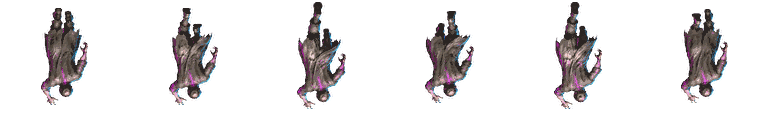
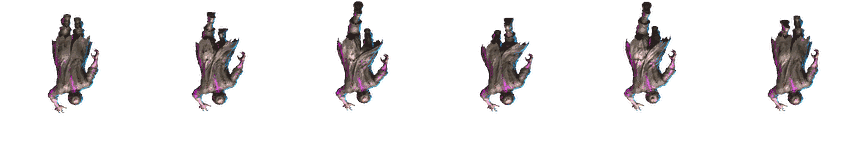
deadswarm: DEAD ROUTE 좀비 떼 생존 1119-1315 확대·걸음·불 효과·공습 모바일 테스트판
Claude-Session: https://claude.ai/code/session_01BVqfE3DvECcRBtZfh4PbBu

diff --git a/deadswarm/game.js b/deadswarm/game.js
@@ -16,7 +16,7 @@ if(API){const dpr=Math.min(2,info.pixelRatio||1);c.width=Math.max(1,Math.round((
  const s=Math.min(c.width/W,c.height/H);view={s,ox:(c.width-W*s)/2,oy:(c.height-H*s)/2};}
 else{c.width=W;c.height=H;}
 function mkCanvas(w,h){const cv=API?API.createCanvas():document.createElement('canvas');cv.width=w;cv.height=h;return cv}
-const BUILD='1119-1300';
+const BUILD='1119-1315';
 const QS=(!API&&typeof location!=='undefined')?location.search:'';
 // 안전장치: 반지름 음수·NaN이면 그리기 전체가 멈추는 문제 방지
 (function(){const P=Object.getPrototypeOf(g);if(!P||P.__safe)return;P.__safe=true;const oa=P.arc,oe=P.ellipse;
@@ -39,16 +39,20 @@ function onImg(name,im){if(name.indexOf('z_')===0){const k=name.slice(2);try{ZWH
 IMG_LIST.forEach(n=>loadImg(n));
 
 // ================================================================ 캐릭터 · 감염체 그림 (잘라 붙인 부품을 코드로 움직임)
-const SPR={"jay":[200,59.8],"blk":[160,71.8],"pred":[128,55.0],"boss":[256,133.9],"cmd":[128,64.6],"run":[128,55.0],"walk":[128,55.0]};const NF=6;
-function drawRunner(cx,x,y,ang,phase,mag,sz){const im=imgs.jay;if(!im)return;const C=SPR.jay[0],D=sz*SPR.jay[1]/34,m=Math.min(1,mag),f=m<.15?0:(((phase/TAU*NF)|0)%NF+NF)%NF;
- cx.save();cx.translate(x,y);cx.fillStyle='rgba(0,0,0,.45)';cx.beginPath();cx.ellipse(0,3,sz*.42,sz*.3,0,0,TAU);cx.fill();cx.rotate(ang-PI/2);cx.drawImage(im,f*C,0,C,C,-D/2,-D/2,D,D);cx.restore()}
-// 감염체 걷기 6장을 미리 잘라 둠(그림자 포함, 흰 번쩍임·예고 색 포함)
+const SPR={"jay":[224,79.6,[3,1,4,2,5,6,5,2,4,1],3],"blk":[176,104.5,[4,3,5,3,4,-3,-5,-3],3],"pred":[144,72.7,[1,2,3,5,3,2],0],"boss":[272,177.7,[4,2,5,3,5,2,4,-2,-5,-3,-5,-2],3],"cmd":[144,84.8,[6,2,5,3,5,2],5],"run":[144,68.8,[6,1,4,2,3,5,3,2,4,1],3],"walk":[144,69.7,[3,1,6,4,2,5,2,4,6,1],5]};
+function drawRunner(cx,x,y,ang,phase,mag,sz){const im=imgs.jay;if(!im)return;const J=SPR.jay,C=J[0],D=sz*J[1]/34,m=Math.min(1,mag),o=J[2],f=m<.15?J[3]:o[(((phase/TAU*o.length)|0)%o.length+o.length)%o.length]-1;
+ cx.save();cx.translate(x,y);cx.fillStyle='rgba(0,0,0,.45)';cx.beginPath();cx.ellipse(0,3,sz*.5,sz*.36,0,0,TAU);cx.fill();cx.rotate(ang-PI/2+Math.sin(phase)*.04*m);cx.drawImage(im,f*C,0,C,C,-D/2,-D/2,D,D);cx.restore()}
+// 감염체 걸음 그림을 미리 잘라 둠(그림자·흰 번쩍임·예고 색 포함, 음수 번호는 좌우 뒤집은 반대 걸음)
 const ZF={};let zfReady=false;
-function buildSprites(){if(zfReady)return true;for(const k of['walk','run','pred','blk','cmd','boss'])if(!imgs['z_'+k]||!ZWHITE[k])return false;
- for(const t of['walk','run','pred','blk','cmd','boss']){const C=SPR[t][0],S=SPR[t][1],im=imgs['z_'+t],sh=C*.17,mk=(src,i,tint)=>{const cv=mkCanvas(C,C),x=cv.getContext('2d');if(!tint||tint==='t'){x.fillStyle='rgba(0,0,0,.42)';x.beginPath();x.ellipse(C/2,C/2+2,sh,sh*.8,0,0,TAU);x.fill()}x.drawImage(src,i*C,0,C,C,0,0,C,C);
-   if(tint==='t'){x.globalCompositeOperation='source-atop';x.globalAlpha=.4;x.fillStyle='#ff7a2a';x.fillRect(0,0,C,C)}return cv};
-  ZF[t]={S,f:[],white:mk(ZWHITE[t],0,'w'),tele:mk(im,1,'t')};for(let i=0;i<NF;i++)ZF[t].f.push(mk(im,i))}
+function buildSprites(){if(zfReady)return true;const TS=['walk','run','pred','blk','cmd','boss'];for(const k of TS)if(!imgs['z_'+k]||!ZWHITE[k])return false;
+ for(const t of TS){const C=SPR[t][0],S=SPR[t][1],im=imgs['z_'+t],sh=C*.15,mk=(src,i,tint)=>{const cv=mkCanvas(C,C),x=cv.getContext('2d'),fi=Math.abs(i)-1;if(tint!=='w'){x.fillStyle='rgba(0,0,0,.42)';x.beginPath();x.ellipse(C/2,C/2+2,sh,sh*.85,0,0,TAU);x.fill()}
+   if(i<0){x.translate(C,0);x.scale(-1,1)}x.drawImage(src,fi*C,0,C,C,0,0,C,C);if(tint==='t'){x.globalCompositeOperation='source-atop';x.globalAlpha=.4;x.fillStyle='#ff7a2a';x.fillRect(0,0,C,C)}return cv};
+  const N=SPR[t][3]+1;ZF[t]={S,f:SPR[t][2].map(i=>mk(im,i)),white:mk(ZWHITE[t],N,'w'),tele:mk(im,N,'t')}}
  zfReady=true;return true}
+// 불·연기용 뭉게 그림(코드로 한 번만 만들어 색별로 재사용)
+const PUFF=[],PUFFC={};
+function puff(col,v){const k=col+v;let cv=PUFFC[k];if(!cv){if(!PUFF.length)for(let n=0;n<4;n++){const c2=mkCanvas(64,64),x=c2.getContext('2d');let sd=n*97+13;const rn=()=>{sd=(sd*1103515245+12345)&0x7fffffff;return sd/0x7fffffff};for(let i=0;i<9;i++){const a=rn()*TAU,r=rn()*13,px=32+Math.cos(a)*r,py=32+Math.sin(a)*r,r2=9+rn()*9,gr=x.createRadialGradient(px,py,0,px,py,r2);gr.addColorStop(0,'rgba(255,255,255,.55)');gr.addColorStop(1,'rgba(255,255,255,0)');x.fillStyle=gr;x.fillRect(0,0,64,64)}PUFF.push(c2)}cv=PUFFC[k]=tintOf(PUFF[v],col,1)}return cv}
+const FPAL=[['#fff3c0','#ffa032','#e0401a'],['#f0fcff','#8fdcff','#3f8fff']];
 const PROP_M={radio:[2,2,96,96],firebottle:[100,2,44,96],bottle:[146,2,39,96],crate:[187,2,87,96],spikes:[276,2,95,96],parcel:[373,2,96,96],turret:[471,2,96,90],sandbag:[569,2,96,32],medkit:[667,2,96,75],battery:[765,2,96,61]};
 function prop(k,x,y,w,rot){const im=imgs.props;if(!im)return false;const m=PROP_M[k],h=w*m[3]/m[2];g.save();g.translate(x,y);if(rot)g.rotate(rot);g.drawImage(im,m[0],m[1],m[2],m[3],-w/2,-h/2,w,h);g.restore();return true}
 // 부드러운 빛 스프라이트(색별 한 번만 만들어 재사용)
@@ -172,7 +176,7 @@ const UPG=[
  {k:'revive',n:['응급 키트','急救包'],m:1,b:400,e:l=>[l?'한 판에 한 번, 쓰러져도 체력 40%로 일어나요':'한 판에 한 번 부활','每局一次，倒下后以40%生命复活']}];
 const upLv=k=>save.up[k]||0, upCost=u=>Math.round(u.b*(1+upLv(u.k))*(1+upLv(u.k)*.35));
 const MISSIONS=[{k:'kill',goal:800,n:['감염체 800마리 쓰러뜨리기','击倒800个感染者'],r:60},{k:'run',goal:3,n:['출동 3번','出动3次'],r:40},{k:'clear',goal:1,n:['구역 1번 탈출','成功撤离1次'],r:80},
- {k:'crate',goal:4,n:['보급 상자 4개 열기','打开4个补给箱'],r:50},{k:'lv',goal:20,n:['한 판에 레벨 20 달성','单局达到20级'],r:60},{k:'siren',goal:40,n:['사이렌 켜고 40초 버티기','开警报坚持40秒'],r:60},{k:'evo',goal:1,n:['무기 1번 진화','进化武器1次'],r:90},{k:'time',goal:300,n:['합계 5분 버티기','累计坚持5分钟'],r:50}];
+ {k:'crate',goal:4,n:['보급 상자 4개 열기','打开4个补给箱'],r:50},{k:'lv',goal:20,n:['한 판에 레벨 20 달성','单局达到20级'],r:60},{k:'ult',goal:5,n:['공습 5번 요청','呼叫空袭5次'],r:60},{k:'evo',goal:1,n:['무기 1번 진화','进化武器1次'],r:90},{k:'time',goal:300,n:['합계 5분 버티기','累计坚持5分钟'],r:50}];
 const ATT=[50,80,100,120,150,200,400];
 const STAR_BOX=[[3,100],[6,200],[9,300],[12,400],[15,600]];
 function dailyInit(){const t=todayKey();if(save.daily&&save.daily.day===t)return;let h=hashStr(t);const pool=MISSIONS.map((m,i)=>i),pick=[];while(pick.length<3){const i=h%pool.length;pick.push(pool.splice(i,1)[0]);h=Math.imul(h,1103515245)+12345>>>0}save.daily={day:t,m:pick.map(i=>({i,p:0,c:false}))};persist()}
@@ -223,7 +227,7 @@ let ptr=null,joy={on:false,ox:0,oy:0,x:0,y:0};
 function message(t,d=2){banner=t;bannerT=d;bannerSc=sc}
 function announce(t,sub,col){bigMsg={t,sub:sub||'',col:col||'#FFE8C2',life:2.2}}
 function shake(n){if(save.shake!==false)shakeT=Math.max(shakeT,n)}
-const VW=470,ZS=W/VW,VH=H/ZS;   // 화면에 보이는 세계 크기
+const VW=410,ZS=W/VW,VH=H/ZS;   // 화면에 보이는 세계 크기
 const lv=k=>S.w[k]||0, EV=k=>!!S.evo[k];
 
 // ================================================================ 판 시작
@@ -233,7 +237,7 @@ function newRun(st,diff,tut,boost){st=st|0;diff=Math.max(1,diff|0);if(!buildWorl
  P={x:px,y:py,hp:maxHp,maxHp,ang:-PI/2,phase:0,inv:1,mv:0};
  const D=STAGES[st];
  S={st,diff,tut:!!tut,t:0,kills:0,lv:1,xp:0,need:3,w:{},evo:{},zs:[],bul:[],gems:[],pk:[],pools:[],tur:[],bolts:[],fx:[],num:[],pt:[],dec:[],drs:[{a:0},{a:2.1},{a:4.2}],
-  spawn:0,wave:20,siren:false,sirenT:0,cam:{x:0,y:0},cd:{gun:.3,molo:1,pulse:2,bolt:1,turret:.5,frost:1.5,drone:1},sawA:0,bossOut:false,boss:null,win:false,winT:-1,over:false,
+  spawn:0,wave:20,air:[],fp:[],ultN:0,cam:{x:0,y:0},cd:{gun:.3,molo:1,pulse:2,bolt:1,turret:.5,frost:1.5,drone:1},sawA:0,bossOut:false,boss:null,win:false,winT:-1,over:false,
   hm:D.mul*(1+.4*(diff-1)),rate:D.rate*(1+.06*(diff-1)),sp:D.sp,drops:[60,120],pick:null,chest:null,rerolls:upLv('reroll'),adReroll:false,kit:upLv('revive')>0,kitUsed:false,revived:false,
   dmgM:1+.06*upLv('pow'),spdM:1+.03*upLv('spd'),cdM:1-.03*upLv('cd'),magM:1+.12*upLv('mag'),xpM:1+.06*upLv('xp'),crates:0,evoN:0,dmg:{},crit:.08,od:0,odG:0,odN:0,eb:[],elT:35,elN:0,wn:0,boost:!!boost,groanT:2,flowT:0,moved:0,tipT:0,doubled:false,reward:0};
  const sw=weaponOpen(save.startW)?save.startW:'gun';S.w[sw]=boost?3:1;if(boost)S.rerolls++;
@@ -242,7 +246,14 @@ function newRun(st,diff,tut,boost){st=st|0;diff=Math.max(1,diff|0);if(!buildWorl
  if(!tut)announce(LL(D.n),L('2분 30초 버티면 문지기가 나타나요','坚持2分30秒，守门者就会出现'))}
 const DM=()=>S.dmgM*(1+.12*lv('pow')), CDM=()=>S.cdM*(1-.08*lv('cd'))*(S.od>0?.6:1);
 let DSRC='etc';const odNeed=()=>Math.min(320,70+50*S.odN);
-function startOD(){S.od=7;S.odG=0;S.odN++;for(const gm of S.gems)gm.pull=true;S.fx.push({k:'wave',x:P.x,y:P.y,t:0,life:.5,R:170,c:'#ffd166'});S.fx.push({k:'pillar',x:P.x,y:P.y,t:0,life:.7,c:'#ffd166'});message(L('과열! 공격 속도 폭발','狂热！攻速爆发'),1.4);AudioFx.cue('surge',.7);vib('medium');shake(.2)}
+const ultReady=()=>S.odG>=odNeed()&&S.od<=0;
+function useUlt(){if(!S||!ultReady()||S.win||S.over)return;S.od=7;S.odG=0;S.odN++;S.ultN++;mission('ult');for(const gm of S.gems)gm.pull=true;const c=[];near(P.x,P.y,300,z=>c.push(z));if(S.boss&&!S.boss.dead)c.push(S.boss,S.boss);
+ for(let i=0;i<10;i++){const z=c.length?c[(Math.random()*c.length)|0]:null,a=Math.random()*TAU,r=rand(40,170),T=.3+i*.13;S.air.push({x:z?z.x+rand(-14,14):P.x+Math.cos(a)*r,y:z?z.y+rand(-14,14):P.y+Math.sin(a)*r,t:T,T})}
+ S.fx.push({k:'wave',x:P.x,y:P.y,t:0,life:.5,R:170,c:'#ffd166'});message(L('공습 요청! 폭격이 쏟아진다','呼叫空袭！轰炸来了'),1.6);AudioFx.cue('siren',.55);vib('medium');track('ult',{t:Math.round(S.t),n:S.ultN})}
+function startOD(){S.odG=odNeed();S.od=0;useUlt()}
+function fpush(k,x,y,vx,vy,life,s0,s1,pal){if(S.fp.length>(qualityLow?140:460))return;S.fp.push({k,x,y,vx,vy,t:0,life,s0,s1,r:Math.random()*TAU,vr:rand(-2.5,2.5),v:(Math.random()*4)|0,pal:pal||0})}
+function flame(x,y,R,pal){const a=Math.random()*TAU,r=Math.sqrt(Math.random())*R*.8,fx=x+Math.cos(a)*r,fy=y+Math.sin(a)*r*.75;fpush('f',fx,fy,rand(-8,8),rand(-52,-20),rand(.4,.75),R*rand(.34,.52),R*.1,pal);if(Math.random()<.13)fpush('s',fx,fy-8,rand(-6,6),rand(-32,-16),rand(.8,1.3),R*.22,R*.55,0);if(Math.random()<.22)fpush('e',fx,fy,rand(-22,22),rand(-95,-40),rand(.4,.9),1.7,.5,pal)}
+function burst(x,y,R,pal){for(let i=0;i<(qualityLow?6:14);i++){const a=Math.random()*TAU,v=R*rand(.5,2.3);fpush('f',x,y,Math.cos(a)*v,Math.sin(a)*v*.85,rand(.3,.62),R*rand(.34,.55),R*.12,pal)}for(let i=0;i<(qualityLow?2:5);i++){const a=Math.random()*TAU,v=R*rand(.2,.7);fpush('s',x,y,Math.cos(a)*v,Math.sin(a)*v-14,rand(.8,1.5),R*.34,R*.8,0)}for(let i=0;i<(qualityLow?4:10);i++){const a=Math.random()*TAU,v=R*rand(2,4.6);fpush('e',x,y,Math.cos(a)*v,Math.sin(a)*v,rand(.3,.7),2,.5,pal)}}
 function spawnElite(t,mid){const z=spawnRing(t)||spawnRing(t,240);if(!z)return null;z.el=mid?2:1;z.hp=z.mhp=(mid?1500:300+S.t*9)*S.hm;z.r=ZT[t].r*(mid?1.7:1.35);return z}
 
 // ================================================================ 감염체
@@ -257,12 +268,12 @@ const ZCOL=t=>t==='cmd'?'#b78cff':t==='pred'?'#ffd166':save.mild?'#9fb4c8':'#3ef
 function hurt(z,d,kx,ky,k){if(z.dead)return;d*=DM();let cr=0;if(Math.random()<S.crit+(S.od>0?.12:0)){d*=2;cr=1}S.dmg[DSRC]=(S.dmg[DSRC]||0)+Math.min(d,z.hp);z.hp-=d;z.fl=.07;if(k){const l=hyp(kx,ky)||1,m=z.t==='boss'?.1:(z.t==='blk'||z.el)?.3:1;z.kx+=kx/l*k*m;z.ky+=ky/l*k*m}
  if(S.num.length<(qualityLow?14:40))S.num.push({x:z.x+rand(-6,6),y:z.y-14,s:Math.round(d),t:0,big:d>=30,cr});
  if(z.hp<=0)killZ(z)}
-function killZ(z){if(z.dead)return;z.dead=true;S.kills++;save.stats.kills++;mission('kill');if(S.od<=0&&!S.win){S.odG+=(z.t==='walk'||z.t==='run')?1:3;if(S.odG>=odNeed())startOD()}
+function killZ(z){if(z.dead)return;z.dead=true;S.kills++;save.stats.kills++;mission('kill');if(S.od<=0&&!S.win&&S.odG<odNeed()){S.odG+=(z.t==='walk'||z.t==='run')?1:3;if(S.odG>=odNeed()){S.odG=odNeed();AudioFx.cue('ding',.7);vib('medium');if(!save.tips.ult)tip('ult',[['공습 게이지가 가득 찼어요! 오른쪽 아래 버튼을 누르면 폭격이 쏟아져요.','空袭能量已满！点击右下角按钮呼叫轰炸。'],['폭격 뒤 7초 동안은 공격도 빨라져요. 떼에 둘러싸였을 때 쓰세요.','轰炸后7秒内攻速加快，被包围时使用。']])}}
  if(z.el){save.stats.elite=(save.stats.elite||0)+1;shake(.3);vib('medium');for(let i=0;i<8;i++)S.gems.push({x:z.x+rand(-24,24),y:z.y+rand(-24,24),v:4,t:0});if(z.el===2)S.pk.push({k:'medkit',x:z.x+22,y:z.y})}
  if(S.kills%100===0){message(S.kills+L(' 처치!',' 击倒！'),1.2);AudioFx.cue('near',.6)}
  const col=ZCOL(z.t),big=!(z.t==='walk'||z.t==='run');spark(z.x,z.y,big?14:5,col,big?170:110,.4,big?4:3);if(S.fx.length<70)S.fx.push({k:'pop',x:z.x,y:z.y,t:0,life:.16,R:z.r*2.8,c:col});
  if(big){shake(.12);if(!save.mild&&!qualityLow)S.dec.push({k:'splat',x:z.x,y:z.y,t:0,life:6,R:z.r*1.6,a:Math.random()*6})}
- S.gems.push({x:z.x,y:z.y,v:ZT[z.t].xp*(S.siren?2:1),t:0});
+ S.gems.push({x:z.x,y:z.y,v:ZT[z.t].xp,t:0});
  if(S.fx.length<40)S.fx.push({k:'gib',x:z.x,y:z.y,t:0,life:.4,a:Math.random()*6,c:col,n:big?10:5});
  AudioFx.cue('zdie',.45,.09);
  const r=Math.random();if(z.el||((z.t==='blk'||z.t==='cmd')&&Math.random()<.06))S.pk.push({k:'crate',x:z.x,y:z.y});else if(r<.012)S.pk.push({k:'medkit',x:z.x,y:z.y});else if(r<.019)S.pk.push({k:'battery',x:z.x,y:z.y});
@@ -306,9 +317,9 @@ function tick(dt){if(!S||(dbgFreeze&&!stepping))return;if(overlayOn())return;
  if(S.winT>=0){S.winT-=dt;dt*=.3;if(S.winT<0){finishRun(true);return}}
  const p=P;S.t+=dt;DSRC='etc';if(S.od>0)S.od-=dt;flashT=Math.max(0,flashT-dt);shakeT=Math.max(0,shakeT-dt);
  // 이동
- const v=input(),m=hyp(v.x,v.y),sp=118*S.spdM*(1+.08*lv('spd'))*(S.od>0?1.12:1);if(m>.1){const ox=p.x,oy=p.y;moveE(p,v.x*sp*dt,v.y*sp*dt,9);S.moved+=hyp(p.x-ox,p.y-oy);p.ang=Math.atan2(v.y,v.x);p.phase+=dt*13*m}p.mv=m;p.inv=Math.max(0,p.inv-dt);
+ const v=input(),m=hyp(v.x,v.y),sp=118*S.spdM*(1+.08*lv('spd'))*(S.od>0?1.12:1);if(m>.1){const ox=p.x,oy=p.y;moveE(p,v.x*sp*dt,v.y*sp*dt,9);S.moved+=hyp(p.x-ox,p.y-oy);{const ta=Math.atan2(v.y,v.x);let da=ta-p.ang;while(da>PI)da-=TAU;while(da<-PI)da+=TAU;p.ang+=da*Math.min(1,dt*14)}p.phase+=dt*13*m}p.mv=m;p.inv=Math.max(0,p.inv-dt);
  // 등장
- if(!S.win){const cap=S.siren?260:(qualityLow?150:200),rate=(2.6+S.t*.13)*S.rate*(S.siren?1.9:1)*(S.tut&&S.t<20?.6:1);S.spawn+=rate*dt;while(S.spawn>=1){S.spawn--;if(S.zs.length<cap)spawnRing(pickType())}
+ if(!S.win){const cap=qualityLow?150:210,rate=(2.6+S.t*.13)*S.rate*(S.tut&&S.t<20?.6:1);S.spawn+=rate*dt;while(S.spawn>=1){S.spawn--;if(S.zs.length<cap)spawnRing(pickType())}
   if(S.t>=S.wave){S.wave+=25;AudioFx.cue('surge',.8);const wk=S.tut?0:S.wn++%3;
    if(wk===1){message(L('포위당했다! 뚫고 나가요','被包围了！冲出去'),1.8);const n=20+((S.t/12)|0);for(let i=0;i<n;i++){const a=i/n*TAU,x=p.x+Math.cos(a)*235,y=p.y+Math.sin(a)*235;if(!solid(x,y,12)&&S.zs.length<280)spawn('walk',x,y)}}
    else if(wk===2){message(L('질주 떼가 달려온다!','狂奔尸群冲来了！'),1.8);const a=Math.random()*TAU,n=10+((S.t/15)|0);for(let i=0;i<n;i++){const o=(i-n/2)*16,x=p.x+Math.cos(a)*270-Math.sin(a)*o,y=p.y+Math.sin(a)*270+Math.cos(a)*o;if(!solid(x,y,12)&&S.zs.length<280)spawn('run',x,y)}}
@@ -317,7 +328,8 @@ function tick(dt){if(!S||(dbgFreeze&&!stepping))return;if(overlayOn())return;
   if(S.boss&&!S.boss.dead&&S.t>BOSS_T+75&&!S.rage){S.rage=1;message(L('문지기가 날뛴다!','守门者暴走了！'),1.6)}
   if(!S.bossOut&&S.t>=BOSS_T){S.bossOut=true;S.boss=spawnRing('boss')||spawnRing('boss',300)||spawnRing('boss',220)||spawnRing('boss',150)||spawn('boss',p.x,p.y);announce(L('문지기 등장','守门者出现'),L('쓰러뜨리면 탈출!','击倒它就能撤离！'),'#ff9a7a');AudioFx.cue('scream');vib('heavy')}
   if(S.drops.length&&S.t>=S.drops[0]){S.drops.shift();let x=p.x,y=p.y;for(let i=0;i<20;i++){const a=Math.random()*TAU,r=rand(110,170),tx=p.x+Math.cos(a)*r,ty=p.y+Math.sin(a)*r;if(!solid(tx,ty,16)){x=tx;y=ty;break}}S.pk.push({k:'crate',x,y,drop:1});message(L('보급 상자 투하!','补给箱空投！'),1.6);AudioFx.cue('ding',.6)}}
- if(S.siren){S.sirenT+=dt;if(S.sirenT>=1){mission('siren',1);S.sirenT-=1}}
+ if(autoBot&&ultReady())useUlt();
+ for(const a of S.air){a.t-=dt;if(a.t<=0){a.done=1;DSRC='air';S.fx.push({k:'boom',x:a.x,y:a.y,t:0,life:.5,R:78,c:'#ff8a3d'});S.dec.push({k:'crack',x:a.x,y:a.y,t:0,life:5,R:30,a:Math.random()*6});shake(.3);AudioFx.cue('slam',.5,.07);const d=70+S.t*1.5;near(a.x,a.y,82,z=>hurt(z,z.t==='boss'?d*.6:d,0,0,0))}}S.air=S.air.filter(a=>!a.done);DSRC='etc';
  S.flowT-=dt;if(S.flowT<=0){S.flowT=.3;flowUpdate()}
  grid.clear();for(const z of S.zs){const k=gk(z.x,z.y);let a=grid.get(k);if(!a)grid.set(k,a=[]);a.push(z)}
  // 감염체
@@ -351,7 +363,7 @@ function tick(dt){if(!S||(dbgFreeze&&!stepping))return;if(overlayOn())return;
   b.x+=b.vx*dt;b.y+=b.vy*dt;if(b.t>(b.life||.6)){b.dead=true;continue}
   near(b.x,b.y,b.rad||5,z=>{if(b.dead||b.hit.indexOf(z)>=0)return;b.hit.push(z);hurt(z,b.d,b.vx,b.vy,60);spark(b.x,b.y,2,b.col||'#9fe8ff',95,.2,2);if(b.pr--<=0)b.dead=true})}
  S.bul=S.bul.filter(b=>!b.dead);
- DSRC='molo';for(const o of S.pools){o.t+=dt;o.tick-=dt;if(Math.random()<dt*12)spark(o.x+rand(-.6,.6)*o.R,o.y+rand(-.5,.5)*o.R,1,'#ffb347',12,.8,2.4,-60);if(o.tick<=0){o.tick=.35;near(o.x,o.y,o.R,z=>hurt(z,6+3*o.L,0,0,0))}}S.pools=S.pools.filter(o=>o.t<o.life);
+ DSRC='molo';for(const o of S.pools){o.t+=dt;o.em=(o.em||0)+dt*(qualityLow?16:58);while(o.em>=1){o.em--;if(o.life-o.t>.25)flame(o.x,o.y,o.R)}o.tick-=dt;if(Math.random()<dt*12)spark(o.x+rand(-.6,.6)*o.R,o.y+rand(-.5,.5)*o.R,1,'#ffb347',12,.8,2.4,-60);if(o.tick<=0){o.tick=.35;near(o.x,o.y,o.R,z=>hurt(z,6+3*o.L,0,0,0))}}S.pools=S.pools.filter(o=>o.t<o.life);
  DSRC='etc';for(const e of S.eb){e.t+=dt;e.x+=e.vx*dt;e.y+=e.vy*dt;if(hyp(e.x-p.x,e.y-p.y)<11){e.t=9;hitP(12*(1+.15*S.st))}}S.eb=S.eb.filter(e=>e.t<4.5);
  for(const b of S.bolts)b.t+=dt;S.bolts=S.bolts.filter(b=>b.t<.14);
  // 초록 빛 · 줍기
@@ -366,12 +378,13 @@ function tick(dt){if(!S||(dbgFreeze&&!stepping))return;if(overlayOn())return;
  S.pk=S.pk.filter(k=>!k.got);S.zs=S.zs.filter(z=>!z.dead);
  if(S.boss&&S.boss.dead)S.boss=null;
  for(const q of S.pt){q.t+=dt;q.x+=q.vx*dt;q.y+=q.vy*dt;q.vx*=Math.pow(.02,dt);q.vy=q.vy*Math.pow(.02,dt)+q.g*dt}S.pt=S.pt.filter(q=>q.t<q.life);
+ for(const q of S.fp){q.t+=dt;q.x+=q.vx*dt;q.y+=q.vy*dt;q.r+=q.vr*dt;const k=Math.pow(.12,dt);q.vx*=k;q.vy*=k}S.fp=S.fp.filter(q=>q.t<q.life);
  for(const d of S.dec)d.t+=dt;S.dec=S.dec.filter(d=>d.t<d.life);for(const f of S.fx)f.t+=dt;S.fx=S.fx.filter(f=>f.t<f.life);for(const n of S.num)n.t+=dt;S.num=S.num.filter(n=>n.t<.5);
  // 소리: 가까운 놈의 신음
  S.groanT-=dt;if(S.groanT<=0){S.groanT=rand(1.1,2.4);const z=nearest(p.x,p.y,260);if(z)AudioFx.cue('groan'+(1+((Math.random()*4)|0)),.25+.35*(1-hyp(z.x-p.x,z.y-p.y)/260),.5)}
  if(p.hp>0&&p.hp<p.maxHp*.25){S.hbT=(S.hbT||0)-dt;if(S.hbT<=0){S.hbT=.95;AudioFx.cue('heart',.6)}}
  // 안내
- if(S.tut){S.tipT+=dt;if(S.t>30&&!save.tips.siren)tip('siren',[['오른쪽 아래 사이렌을 켜면 떼가 두 배로 몰려오지만 경험치도 두 배예요.','打开右下角警报，尸潮翻倍，经验也翻倍。'],['자신 있을 때 켜고, 위험하면 바로 끄세요.','有把握时打开，危险时立刻关闭。']])}
+ if(S.tut){S.tipT+=dt;}
  if(S.xp>=S.need&&!S.win&&!S.pick){S.xp-=S.need;levelUp()}}
 function floatTxt(x,y,s,col){if(S.num.length<44)S.num.push({x,y,s,t:-.4,big:true,col})}
 function hitP(d){if(P.inv>0||S.win||S.over)return;P.hp-=d;P.inv=.4;flashT=.25;shake(.18);AudioFx.cue('hurt',.7,.1);vib('heavy');
@@ -454,7 +467,7 @@ function drawFinger(x,y,label){const b=Math.sin(frame*7)*10;g.save();g.translate
  g.fillStyle='#fff3e6';g.strokeStyle=OUT;g.lineWidth=3;pathRect(-11,-12,22,52,11);g.fill();g.stroke();g.restore();if(label)txt(label,x,y+82,24,'#ffd166','center')}
 
 // ================================================================ 전투 그리기
-function drawEnemy(z){const F=ZF[z.t];if(!F)return;if(z.el)glow(z.x,z.y,z.r*2.8,'#ffd166',.4+.15*Math.sin(S.t*6));const S2=F.S*(z.el===2?1.8:z.el?1.4:1),im=z.fl>0?F.white:(z.st===1?F.tele:F.f[((z.ph*NF/TAU)|0)%NF]);g.save();g.translate(z.x,z.y);g.rotate(z.ang-PI/2);g.drawImage(im,-S2/2,-S2/2,S2,S2);g.restore();
+function drawEnemy(z){const F=ZF[z.t];if(!F)return;if(z.el)glow(z.x,z.y,z.r*2.8,'#ffd166',.4+.15*Math.sin(S.t*6));const S2=F.S*(z.el===2?1.8:z.el?1.4:1),im=z.fl>0?F.white:(z.st===1?F.tele:F.f[((z.ph*F.f.length/TAU)|0)%F.f.length]);g.save();g.translate(z.x,z.y);g.rotate(z.ang-PI/2+Math.sin(z.ph)*.05);g.drawImage(im,-S2/2,-S2/2,S2,S2);g.restore();
  if(z.st===1){g.strokeStyle='rgba(255,138,61,.9)';g.lineWidth=2;g.beginPath();if(z.t==='boss')g.arc(z.x,z.y,95,0,TAU);else{g.moveTo(z.x,z.y);g.lineTo(z.tx,z.ty)}g.stroke()}
  if(z.t==='blk'||z.el){const w=z.el?46:30;g.fillStyle='rgba(0,0,0,.6)';g.fillRect(z.x-w/2,z.y-z.r-14,w,4);g.fillStyle='#ff4d5e';g.fillRect(z.x-w/2,z.y-z.r-14,w*clamp(z.hp/z.mhp,0,1),4)}}
 function drawWorld(){const p=P;let cx=clamp(p.x-VW/2,0,WW-VW),cy=clamp(p.y-VH/2,0,WH-VH);if(shakeT>0){cx+=rand(-1,1)*shakeT*14;cy+=rand(-1,1)*shakeT*14}S.cam.x=cx;S.cam.y=cy;
@@ -462,7 +475,7 @@ function drawWorld(){const p=P;let cx=clamp(p.x-VW/2,0,WW-VW),cy=clamp(p.y-VH/2,
  for(const d of S.dec){const a=Math.min(1,d.life-d.t);if(d.k==='splat'){g.fillStyle='rgba(20,60,55,'+.4*a+')';for(let i=0;i<5;i++){const b=d.a+i*1.4;g.beginPath();g.ellipse(d.x+Math.cos(b)*d.R*.5,d.y+Math.sin(b)*d.R*.35,d.R*(.3+.12*(i%3)),d.R*(.2+.08*(i%2)),b,0,TAU);g.fill()}}
   else if(d.k==='crack'){g.strokeStyle='rgba(8,8,10,'+.75*a+')';g.lineWidth=2.2;for(let i=0;i<8;i++){const b=d.a+i*.785;g.beginPath();g.moveTo(d.x,d.y);let r=0;for(let k=0;k<4;k++){r+=d.R/4;const bb=b+Math.sin(i*7+k*3)*.25;g.lineTo(d.x+Math.cos(bb)*r,d.y+Math.sin(bb)*r*.8)}g.stroke()}}
   else{g.fillStyle='rgba(170,230,255,'+.2*a+')';g.beginPath();g.ellipse(d.x,d.y,d.R,d.R*.8,0,0,TAU);g.fill();g.strokeStyle='rgba(220,245,255,'+.5*a+')';g.lineWidth=1.5;g.stroke()}}
- for(const o of S.pools){const a=Math.min(1,(o.life-o.t)*2);g.fillStyle='rgba(10,6,4,'+.5*a+')';g.beginPath();g.ellipse(o.x,o.y,o.R,o.R*.8,0,0,TAU);g.fill()}
+ for(const o of S.pools){const a=Math.min(1,(o.life-o.t)*2);g.fillStyle='rgba(10,6,4,'+.28*a+')';g.beginPath();g.ellipse(o.x,o.y,o.R*.95,o.R*.76,0,0,TAU);g.fill()}
  const inV=(x,y,m)=>x>cx-m&&x<cx+VW+m&&y>cy-m&&y<cy+VH+m;
  for(const gm of S.gems){if(!inV(gm.x,gm.y,10))continue;const r=gm.v>=10?4.5:gm.v>=4?3.4:2.4;g.fillStyle=gm.v>=10?'#ffd166':gm.v>=4?'#7fe3ff':'#8dffb9';g.beginPath();g.moveTo(gm.x,gm.y-r*1.3);g.lineTo(gm.x+r,gm.y);g.lineTo(gm.x,gm.y+r*1.3);g.lineTo(gm.x-r,gm.y);g.fill()}
  for(const k of S.pk){const dy=k.drop>0?-k.drop*180:0;if(k.drop>0){g.fillStyle='rgba(0,0,0,.4)';g.beginPath();g.ellipse(k.x,k.y,14*(1-k.drop*.6),6,0,0,TAU);g.fill()}else{g.strokeStyle='#ffd166';g.lineWidth=1.5;g.beginPath();g.arc(k.x,k.y,13+Math.sin(S.t*5)*1.5,0,TAU);g.stroke()}prop(k.k,k.x,k.y+dy,k.k==='crate'?22:18)}
@@ -475,12 +488,14 @@ function drawWorld(){const p=P;let cx=clamp(p.x-VW/2,0,WW-VW),cy=clamp(p.y-VH/2,
   g.strokeStyle=b.col||'#9fe8ff';g.lineWidth=b.big?4:2.4;g.beginPath();g.moveTo(b.x,b.y);g.lineTo(b.x-b.vx*(b.big?.05:.028),b.y-b.vy*(b.big?.05:.028));g.stroke()}
  for(const f of S.fx){const t=f.t/f.life;if(f.k==='gib'){g.globalAlpha=1-t;g.fillStyle=f.c;for(let i=0;i<f.n;i++){const a=f.a+i*1.3,r=(10+i%3*8)*(1-(1-t)*(1-t))*1.7;g.beginPath();g.arc(f.x+Math.cos(a)*r,f.y+Math.sin(a)*r*.8,2.4-(i%2),0,TAU);g.fill()}g.globalAlpha=1}}
  if(lv('drone'))for(let i=0;i<(EV('drone')?3:1);i++){const D=S.drs[i];if(!D.x)continue;g.fillStyle='rgba(0,0,0,.3)';g.beginPath();g.ellipse(D.x,D.y+38,9,4,0,0,TAU);g.fill();g.fillStyle='#1b2230';g.beginPath();g.ellipse(D.x,D.y,9,5.5,0,0,TAU);g.fill();g.strokeStyle='#3a4454';g.lineWidth=2;g.beginPath();g.moveTo(D.x-12,D.y-3);g.lineTo(D.x+12,D.y-3);g.stroke()}
+ for(const q of S.fp){if(q.k!=='s')continue;const t=q.t/q.life,sz=q.s0+(q.s1-q.s0)*t;g.globalAlpha=.42*(1-t)*Math.min(1,t*5);g.save();g.translate(q.x,q.y);g.rotate(q.r);g.drawImage(puff('#191512',q.v),-sz,-sz,sz*2,sz*2);g.restore()}g.globalAlpha=1;
+ for(const a of S.air){const k=clamp(a.t/a.T,0,1);g.strokeStyle='rgba(255,70,50,'+(.9-.5*k)+')';g.lineWidth=2;g.beginPath();g.arc(a.x,a.y,14+60*k,0,TAU);g.stroke();g.beginPath();g.moveTo(a.x-8,a.y);g.lineTo(a.x+8,a.y);g.moveTo(a.x,a.y-8);g.lineTo(a.x,a.y+8);g.stroke()}
  // ---- 빛 더하기 ----
  g.globalCompositeOperation='lighter';
  if(!qualityLow)for(const gm of S.gems){if(!inV(gm.x,gm.y,10))continue;glow(gm.x,gm.y,gm.v>=4?9:6.5,gm.v>=10?'#ffd166':gm.v>=4?'#7fe3ff':'#5dff9a',.45+.2*Math.sin(S.t*6+gm.x))}
  for(const k of S.pk){glow(k.x,k.y,26,'#ffd166',.35+.15*Math.sin(S.t*5));g.globalAlpha=.25;g.fillStyle='#ffd166';g.fillRect(k.x-2,k.y-60,4,60)}
  if(!qualityLow)for(const z of S.zs){if(z.slowT>0&&inV(z.x,z.y,30))glow(z.x,z.y,z.r*2,'#7fe3ff',z.frz?.7:.4)}
- for(const o of S.pools){const a=Math.min(1,(o.life-o.t)*2)*Math.min(1,o.t*6);glow(o.x,o.y,o.R*1.25,'#ff5a14',.4*a);const n=qualityLow?3:8;for(let i=0;i<n;i++){const b=i*.9+o.x,r2=o.R*.6*((i%3+1)/3),fx=o.x+Math.cos(b+S.t*.8)*r2,fy=o.y+Math.sin(b*1.3+S.t)*r2*.7-((S.t*34+i*11)%16),r=o.R*(.36+.12*Math.sin(S.t*9+i));glow(fx,fy,r,'#ff7a1a',.55*a);glow(fx,fy+3,r*.5,'#ffe08a',.6*a)}}
+ for(const o of S.pools){const a=Math.min(1,(o.life-o.t)*2)*Math.min(1,o.t*6);glow(o.x,o.y,o.R*1.3,'#ff5a14',(.42+.1*Math.sin(S.t*17+o.x))*a);glow(o.x,o.y,o.R*.85,'#ffb040',.5*a)}
  for(const b of S.bul){if(b.mol)continue;if(b.rk){glow(b.x-Math.cos(b.a)*8,b.y-Math.sin(b.a)*8,9,'#ff8a3d',.9);continue}glow(b.x,b.y,b.big?13:b.tc?8:9,b.tc?'#ffd166':b.big?'#bdf3ff':'#59d7ff',.85)}
  if(lv('saw')&&!qualityLow){const n=EV('saw')?8:lv('saw')+1,R=S.sawR||54;for(let i=0;i<n;i++){const a=S.sawA+i*TAU/n;for(let k=0;k<3;k++){g.globalAlpha=.22-.06*k;g.strokeStyle=EV('saw')?'#ffe9a8':'#cfe6ff';g.lineWidth=9-2*k;g.beginPath();g.arc(p.x,p.y,R,a-.35-.3*k,a-.3*k);g.stroke()}}}
  if(lv('drone'))for(let i=0;i<(EV('drone')?3:1);i++){const D=S.drs[i];if(D.x){glow(D.x-9,D.y-3,6,'#ff6ad5',.9);glow(D.x+9,D.y-3,6,'#ff6ad5',.9)}}
@@ -489,16 +504,17 @@ function drawWorld(){const p=P;let cx=clamp(p.x-VW/2,0,WW-VW),cy=clamp(p.y-VH/2,
  for(const b of S.bolts){const al=1-b.t/.14,P2=[b.pts[0]];for(let i=1;i<b.pts.length;i++){const o=b.pts[i-1],q=b.pts[i];P2.push([o[0]+(q[0]-o[0])*.33+rand(-9,9),o[1]+(q[1]-o[1])*.33+rand(-9,9)],[o[0]+(q[0]-o[0])*.66+rand(-9,9),o[1]+(q[1]-o[1])*.66+rand(-9,9)],q)}
   for(const [w,a2,c2] of [[10,.25,'#2fb8ff'],[4.5,.7,'#9fe8ff'],[1.8,1,'#ffffff']]){g.globalAlpha=a2*al;g.strokeStyle=c2;g.lineWidth=w;g.lineJoin='round';g.beginPath();g.moveTo(P2[0][0],P2[0][1]);for(let i=1;i<P2.length;i++)g.lineTo(P2[i][0],P2[i][1]);g.stroke()}for(let i=1;i<b.pts.length;i++)glow(b.pts[i][0],b.pts[i][1],18,'#7fe3ff',.8*al)}
  for(const f of S.fx){const t=f.t/f.life;if(f.k==='pop'){glow(f.x,f.y,f.R*(.6+.6*t),f.c,(1-t)*.9);glow(f.x,f.y,f.R*.4,'#ffffff',(1-t)*.8)}
-  else if(f.k==='boom'){glow(f.x,f.y,f.R*(.5+.9*t),f.c,(1-t)*.9);glow(f.x,f.y,f.R*(.3+.3*t),'#fff3c4',(1-t)*(1-t));g.globalAlpha=(1-t)*.8;g.strokeStyle=f.c;g.lineWidth=4*(1-t)+1;g.beginPath();g.arc(f.x,f.y,f.R*(.3+.9*t),0,TAU);g.stroke()}
+  else if(f.k==='boom'){if(!f.em){f.em=1;burst(f.x,f.y,f.R*.5,f.c==='#7fe3ff'?1:0)}glow(f.x,f.y,f.R*(.5+.9*t),f.c,(1-t)*.9);glow(f.x,f.y,f.R*(.3+.3*t),'#fff3c4',(1-t)*(1-t));g.globalAlpha=(1-t)*.8;g.strokeStyle=f.c;g.lineWidth=4*(1-t)+1;g.beginPath();g.arc(f.x,f.y,f.R*(.3+.9*t),0,TAU);g.stroke()}
   else if(f.k==='wave'){glow(f.x,f.y,f.R*(.3+.9*t),f.c,(1-t)*.35);g.strokeStyle=f.c;for(const [o,w] of [[0,7],[.12,3]]){const tt=Math.max(0,t-o);g.globalAlpha=(1-t)*.9;g.lineWidth=w*(1-t)+1;g.beginPath();g.ellipse(f.x,f.y,f.R*(.2+.8*tt),f.R*(.2+.8*tt)*.85,0,0,TAU);g.stroke()}}
   else if(f.k==='pillar'){const gr=g.createLinearGradient(0,f.y-170,0,f.y+10);gr.addColorStop(0,f.c+'00');gr.addColorStop(1,f.c+'cc');g.globalAlpha=(1-t)*.8;g.fillStyle=gr;const w=30*(1-t*.5);g.fillRect(f.x-w/2,f.y-170,w,180);glow(f.x,f.y,40,f.c,(1-t)*.8)}}
+ for(const a of S.air){if(a.t<.3){const k=a.t/.3,x=a.x+k*70,y=a.y-k*420;g.globalAlpha=1;g.strokeStyle='#ffe9b0';g.lineWidth=4;g.beginPath();g.moveTo(x,y);g.lineTo(x+14,y-84);g.stroke();glow(x,y,12,'#ffb040',1)}}
+ for(const q of S.fp){const t=q.t/q.life;if(q.k==='f'){const sz=q.s0+(q.s1-q.s0)*t,P3=FPAL[q.pal];g.globalAlpha=.9*(1-t)*Math.min(1,t*9);g.save();g.translate(q.x,q.y);g.rotate(q.r);g.drawImage(puff(P3[t<.22?0:t<.58?1:2],q.v),-sz,-sz,sz*2,sz*2);g.restore()}else if(q.k==='e')glow(q.x,q.y,(q.s0+(q.s1-q.s0)*t)*2.4,FPAL[q.pal][1],1-t)}g.globalAlpha=1;
  for(const q of S.pt){const t=q.t/q.life;glow(q.x,q.y,q.s*(2.2-1.2*t),q.c,1-t)}
  g.globalAlpha=1;g.globalCompositeOperation='source-over';
  g.textAlign='center';g.textBaseline='middle';for(const n of S.num){if(n.t<0)continue;const k=Math.min(1,n.t*10);g.globalAlpha=Math.max(0,1-n.t*2);font(((n.cr?19:n.big?15:10)*(1.5-.5*k))|0,900);g.lineWidth=2.5;g.strokeStyle='rgba(0,0,0,.7)';g.strokeText(n.s,n.x,n.y-n.t*26);g.fillStyle=n.col||(n.cr?'#ff7a3d':n.big?'#ffd166':'#fff');g.fillText(n.s,n.x,n.y-n.t*26)}g.globalAlpha=1;
  g.fillStyle='rgba(0,0,0,.6)';g.fillRect(p.x-18,p.y+20,36,4);g.fillStyle=p.hp/p.maxHp>.35?'#5dff9a':'#ff4d5e';g.fillRect(p.x-18,p.y+20,36*p.hp/p.maxHp,4);
  g.restore()}
 function drawBattle(){drawWorld();
- if(S.siren){const a=.1+.08*Math.sin(frame*8),gr=g.createRadialGradient(W/2,H/2,H*.3,W/2,H/2,H*.75);gr.addColorStop(0,'rgba(255,40,40,0)');gr.addColorStop(1,'rgba(255,40,40,'+a*2+')');g.fillStyle=gr;g.fillRect(0,0,W,H)}
  if(P.hp<P.maxHp*.25){const gr=g.createRadialGradient(W/2,H/2,H*.35,W/2,H/2,H*.8);gr.addColorStop(0,'rgba(120,0,0,0)');gr.addColorStop(1,'rgba(150,0,10,'+(.25+.15*Math.sin(frame*6))+')');g.fillStyle=gr;g.fillRect(0,0,W,H)}
  if(S.od>0){const gr=g.createRadialGradient(W/2,H/2,H*.32,W/2,H/2,H*.78);gr.addColorStop(0,'rgba(255,190,80,0)');gr.addColorStop(1,'rgba(255,170,60,'+(.22+.08*Math.sin(frame*12))+')');g.fillStyle=gr;g.fillRect(0,0,W,H)}
  if(flashT>0){g.fillStyle='rgba(255,30,40,'+flashT*(save.mild?.6:1.2)+')';g.fillRect(0,0,W,H)}
@@ -516,12 +532,12 @@ function drawHUD(){g.fillStyle='rgba(0,0,0,.6)';g.fillRect(0,0,W,16);const xf=cl
  rr(676,24,54,54,12,'rgba(10,14,22,.85)','#3a4a60',2);g.fillStyle='#eef2f7';g.fillRect(693,38,7,26);g.fillRect(706,38,7,26);hit(670,18,66,66,()=>{if(!overlayOn())paused=true});
  const ws=Object.keys(S.w);let i=0;for(const k of ws){if(WP[k].p)continue;iconBox(k,40+i*58,150,50,S.w[k],EV(k));i++}i=0;for(const k of ws){if(!WP[k].p)continue;iconBox(k,32+i*44,204,38,S.w[k],false);i++}
  if(S.boss&&!S.boss.dead){const b=S.boss;panel(120,252,510,40,12,'#ff6a6a');rr(126,258,498*clamp(b.hp/b.mhp,0,1),28,8,'#d93a4a');txt(LL(ZN.boss),375,272,20,'#fff','center')}
- {const od=S.od>0,f=od?S.od/7:clamp(S.odG/odNeed(),0,1);g.fillStyle='rgba(0,0,0,.6)';g.fillRect(24,80,170,12);g.fillStyle=od?'#ffd166':'#ff8a3d';g.fillRect(26,82,166*f,8);txt(od?L('과열!','狂热！'):L('과열','狂热'),204,87,15,od?'#ffd166':'#c89a78','left',false,800)}
  for(const k of S.pk)if(k.k==='crate')edgeArrow(k.x,k.y,'#ffd166');for(const z of S.zs)if(z.el||z.t==='boss')edgeArrow(z.x,z.y,'#ff5a4a');
- // 사이렌 버튼
- const sx=652,sy=1210,on=S.siren;g.save();if(on){g.shadowColor='rgba(255,70,50,.9)';g.shadowBlur=24}g.beginPath();g.arc(sx,sy,66+(on?Math.sin(frame*10)*3:0),0,TAU);g.fillStyle=on?'#e8402e':'rgba(40,14,6,.88)';g.fill();g.lineWidth=4;g.strokeStyle=on?'#fff':'#ff8a3d';g.stroke();g.restore();
- txt(L('사이렌','警报'),sx,sy-18,24,on?'#fff':'#ffd0a8','center');txt(L('떼 ×2','尸潮×2'),sx,sy+10,17,on?'#fff':'#ffb48a','center',false);txt(L('경험치 ×2','经验×2'),sx,sy+32,17,on?'#fff':'#ffb48a','center',false);
- hit(sx-70,sy-70,140,140,()=>{if(overlayOn())return;S.siren=!S.siren;AudioFx.cue(S.siren?'siren':'ui',.7);message(S.siren?L('사이렌 ON · 떼 ×2 · 경험치 ×2','警报开启 · 尸潮×2 · 经验×2'):L('사이렌 OFF','警报关闭'),1.2);track('siren',{on:S.siren?1:0,t:Math.round(S.t)})})}
+ // 공습 버튼(쓰러뜨려 모은 게이지로 발동)
+ {const sx=652,sy=1210,rdy=ultReady(),od=S.od>0,f=od?S.od/7:clamp(S.odG/odNeed(),0,1),pu=rdy?Math.sin(frame*9)*4:0;g.save();if(rdy){g.shadowColor='rgba(255,170,60,.95)';g.shadowBlur=30}g.beginPath();g.arc(sx,sy,66+pu,0,TAU);g.fillStyle=rdy?'#e8622e':'rgba(24,16,10,.88)';g.fill();g.restore();
+  g.lineWidth=7;g.strokeStyle='rgba(255,255,255,.14)';g.beginPath();g.arc(sx,sy,66,0,TAU);g.stroke();if(f>0){g.strokeStyle=od?'#ffd166':rdy?'#fff':'#ff8a3d';g.beginPath();g.arc(sx,sy,66+pu,-PI/2,-PI/2+TAU*f);g.stroke()}
+  txt(od?L('과열!','狂热！'):L('공습','空袭'),sx,sy-10,28,rdy||od?'#fff':'#c8a890','center');txt(od?Math.ceil(S.od)+L('초','秒'):rdy?L('누르세요!','点击！'):Math.floor(f*100)+'%',sx,sy+24,18,rdy||od?'#fff':'#ffb48a','center',false);
+  hit(sx-74,sy-74,148,148,()=>{if(overlayOn())return;if(ultReady())useUlt();else if(S.od<=0)message(L('감염체를 쓰러뜨리면 게이지가 차요','击倒感染者积攒能量'),1.2)})}}
 function edgeArrow(wx,wy,col){const sx=(wx-S.cam.x)*ZS,sy=(wy-S.cam.y)*ZS;if(sx>0&&sx<W&&sy>0&&sy<H)return;const cx=clamp(sx,44,W-44),cy=clamp(sy,330,H-200),a=Math.atan2(sy-cy,sx-cx),s=16+Math.sin(frame*8)*3;g.save();g.translate(cx,cy);g.rotate(a);g.fillStyle=col;g.strokeStyle='rgba(0,0,0,.8)';g.lineWidth=3;g.beginPath();g.moveTo(s,0);g.lineTo(-s*.7,-s*.75);g.lineTo(-s*.3,0);g.lineTo(-s*.7,s*.75);g.closePath();g.stroke();g.fill();g.restore()}
 function cardBox(x,y,w,h,k,fn){const D=WP[k],l=lv(k)+1;rr(x,y+6,w,h,22,'rgba(0,0,0,.5)');rr(x,y,w,h,22,'rgba(14,20,32,.97)',D.c,3);iconBox(k,x+70,y+h/2,92,null,false);
  txt(LL(D.n),x+136,y+44,30,'#ffffff');txt(l===1?'NEW':'Lv '+l,x+w-28,y+44,22,D.c,'right');txt(D.p?L('보조','辅助'):L('무기','武器'),x+136,y+h-26,16,'#8b97a8','left',false,700);
@@ -623,7 +639,7 @@ function rewardScreen(){dailyInit();bgMap(2,.86);txt(L('보상','奖励'),375,70
 function boxAmt(){return 60+20*Object.keys(save.clr).length}
 const GUIDE=[
  {t:['게임 흐름','游戏流程'],flow:true},
- {t:['조작','操作'],items:[['화면 끌기','拖动屏幕','손가락을 댄 자리에 조이스틱이 생겨요. 끄는 방향으로 달려요.','手指按下的地方会出现摇杆，往拖动方向奔跑。'],['공격은 자동','自动攻击','가진 무기가 모두 알아서 공격해요. 피하고, 줍고, 고르는 데만 집중하세요.','所有武器都会自动攻击。专注于闪避、拾取和选择。'],['사이렌','警报','켜면 떼가 두 배로 몰려오지만 경험치도 두 배예요. 언제 켜고 끌지가 실력이에요.','开启后尸潮翻倍，经验也翻倍。何时开关就是技术。'],['과열','狂热','계속 쓰러뜨리면 게이지가 차요. 가득 차면 7초 동안 공격이 빨라지고 치명타가 늘어요.','连续击倒会积攒能量，满后7秒内攻速加快、暴击提高。'],['초록 빛','绿光','쓰러진 놈이 떨어뜨려요. 모으면 레벨이 올라 능력을 골라요.','击倒敌人会掉落，收集后升级并选择能力。']]},
+ {t:['조작','操作'],items:[['화면 끌기','拖动屏幕','손가락을 댄 자리에 조이스틱이 생겨요. 끄는 방향으로 달려요.','手指按下的地方会出现摇杆，往拖动方向奔跑。'],['공격은 자동','自动攻击','가진 무기가 모두 알아서 공격해요. 피하고, 줍고, 고르는 데만 집중하세요.','所有武器都会自动攻击。专注于闪避、拾取和选择。'],['공습','空袭','쓰러뜨릴수록 오른쪽 아래 게이지가 차요. 가득 차면 눌러서 폭격을 부르고, 7초 동안 공격도 빨라져요.','击倒敌人会积攒右下角能量。满后点击呼叫轰炸，并在7秒内加快攻速。'],['초록 빛','绿光','쓰러진 놈이 떨어뜨려요. 모으면 레벨이 올라 능력을 골라요.','击倒敌人会掉落，收集后升级并选择能力。']]},
  {t:['무기 진화','武器进化'],evo:true},
  {t:['감염체','感染者'],items:[['감염자 · 추적자','感染者 · 追踪者','가장 흔한 놈. 붉은 추적자는 빠르지만 약해요.','最常见的敌人。红色追踪者速度快但很脆弱。'],['덮치기형','扑击者','주황 선이 보이면 그 방향으로 덮쳐요. 옆으로 피하세요.','出现橙色线时会朝那个方向扑来，往侧面躲。'],['지휘형 · 거구','指挥者 · 巨躯','지휘형은 주변 놈들을 빠르게 만들고, 거구는 단단해요. 지휘형부터 쓰러뜨리세요.','指挥者让周围敌人加速，巨躯很坚硬。优先击倒指挥者。'],['정예 (금빛)','精英（金色）','35초마다 금빛으로 나타나요. 쓰러뜨리면 보급 상자를 줘요. 화살표가 위치를 알려 줘요.','每35秒以金色出现，击倒后掉落补给箱。箭头会指示位置。'],['문지기','守门者','2분 30초에 나타나요. 주황 원이 보이면 원 밖으로! 체력이 줄면 붉은 탄을 사방으로 쏴요.','2分30秒出现。看到橙色圈就离开！血量降低后会向四周发射红色弹幕。']]},
  {t:['성장','成长'],items:[['물자','物资','출동이 끝나면 버틴 시간과 쓰러뜨린 수만큼 받아요. 져도 받아요.','出动结束后按坚持时间和击倒数获得，失败也有。'],['대피소','避难所','물자로 체력·공격력 등을 영구 강화해요.','用物资永久强化生命、攻击力等。'],['구역 · 무기','区域 · 武器','구역을 탈출하면 다음 구역과 새 시작 무기가 열려요.','撤离区域后开放下一区和新的初始武器。'],['난이도 · 별','难度 · 星','탈출하면 더 높은 난이도가 열려요. 부활 없이, 체력 절반 이상으로 탈출하면 별 3개.','撤离后开放更高难度。不复活且生命过半撤离可得3星。']]}];
@@ -711,7 +727,7 @@ function drawInner(dt){g.clearRect(0,0,W,H);frame+=Math.min(dt,.05);HITS=[];
  if(guideTip)drawGuideTip();if(adShow)drawAd();drawBanner();wantMusic()}
 let drawErr=0;
 if(QS.indexOf('debug=1')>=0){globalThis.__bepaDebug={STAGES,WP,UPG,ZT,save,persist,newRun,finishRun,revive,tap,pDown,pMove,pUp,showAd,mission,levelUp,applyPick,openChest,takeChest,killZ,spawn,spawnRing,drawBattle,tick,
- get S(){return S},get P(){return P},get sc(){return sc},set sc(v){sc=v},set bot(v){autoBot=v},set freeze(v){dbgFreeze=v},get guideTip(){return guideTip},set guideTip(v){guideTip=v},set guidePage(v){guidePage=v},set paused(v){paused=v},get paused(){return paused},set lang(v){LANG=v},get lang(){return LANG},get hits(){return HITS},get drawErr(){return drawErr},set confirmQuit(v){confirmQuit=v},set patrolPop(v){patrolPop=v},spawnElite,startOD,set quality(v){qualityLow=v},
+ get S(){return S},get P(){return P},get sc(){return sc},set sc(v){sc=v},set bot(v){autoBot=v},set freeze(v){dbgFreeze=v},get guideTip(){return guideTip},set guideTip(v){guideTip=v},set guidePage(v){guidePage=v},set paused(v){paused=v},get paused(){return paused},set lang(v){LANG=v},get lang(){return LANG},get hits(){return HITS},get drawErr(){return drawErr},set confirmQuit(v){confirmQuit=v},set patrolPop(v){patrolPop=v},spawnElite,startOD,useUlt,set quality(v){qualityLow=v},
  step(n,dt=1/60){stepping=true;for(let i=0;i<n;i++){guideTip=null;if(adShow){const f=adShow.cb;adShow=null;f()}if(autoBot)botTick();if(sc!=='battle'||!S)break;tick(dt)}stepping=false},
  drawOnce(){draw(0)},get state(){return S?{sc,st:S.st,t:+S.t.toFixed(1),hp:Math.round(P.hp),maxHp:P.maxHp,lv:S.lv,kills:S.kills,zs:S.zs.length,w:Object.assign({},S.w),evo:Object.keys(S.evo),won:!!S.won,over:S.over,pick:!!S.pick,chest:!!S.chest,boss:S.boss?Math.round(S.boss.hp):null,reward:S.reward,sup:save.sup}:{sc,sup:save.sup}}}}
 function loop(now){let dt=last?(now-last)/1000:0;last=now;perf(Math.min(dt,.25));try{draw(Math.min(dt,.1))}catch(e){drawErr++;try{g.restore();g.restore();g.restore()}catch(e2){}if(drawErr<5&&typeof console!=='undefined')console.error('draw error',e);if(drawErr===1)track('draw_error',{m:String(e&&e.message||e).slice(0,80),sc})}

diff --git a/deadswarm/index.html b/deadswarm/index.html
@@ -1,1 +1,1 @@
-<!doctype html><html lang="ko"><head><meta charset="utf-8"/><meta http-equiv="Cache-Control" content="no-cache"/><meta name="viewport" content="width=device-width,initial-scale=1,maximum-scale=1,user-scalable=no,viewport-fit=cover"/><title>DEAD ROUTE · 좀비 떼 생존</title><link rel="apple-touch-icon" href="icon-180.png"/><link rel="icon" type="image/png" href="favicon-32.png"/><link rel="manifest" href="manifest.webmanifest"/><meta name="apple-mobile-web-app-capable" content="yes"/><meta name="mobile-web-app-capable" content="yes"/><meta name="apple-mobile-web-app-title" content="DEAD ROUTE"/><meta name="theme-color" content="#05070c"/><style>*{box-sizing:border-box}html,body{margin:0;width:100%;height:100%;overflow:hidden;background:#05070c;touch-action:none}body{display:flex;justify-content:center;align-items:center;padding:env(safe-area-inset-top) env(safe-area-inset-right) env(safe-area-inset-bottom) env(safe-area-inset-left)}canvas{height:min(100dvh,177.8667vw);width:min(100vw,56.22dvh);display:block;touch-action:none;box-shadow:0 0 40px #000;user-select:none;-webkit-user-select:none}</style></head><body><canvas id="game" width="750" height="1334"></canvas><script src="game.js?v=1119-1300"></script></body></html>
+<!doctype html><html lang="ko"><head><meta charset="utf-8"/><meta http-equiv="Cache-Control" content="no-cache"/><meta name="viewport" content="width=device-width,initial-scale=1,maximum-scale=1,user-scalable=no,viewport-fit=cover"/><title>DEAD ROUTE · 좀비 떼 생존</title><link rel="apple-touch-icon" href="icon-180.png"/><link rel="icon" type="image/png" href="favicon-32.png"/><link rel="manifest" href="manifest.webmanifest"/><meta name="apple-mobile-web-app-capable" content="yes"/><meta name="mobile-web-app-capable" content="yes"/><meta name="apple-mobile-web-app-title" content="DEAD ROUTE"/><meta name="theme-color" content="#05070c"/><style>*{box-sizing:border-box}html,body{margin:0;width:100%;height:100%;overflow:hidden;background:#05070c;touch-action:none}body{display:flex;justify-content:center;align-items:center;padding:env(safe-area-inset-top) env(safe-area-inset-right) env(safe-area-inset-bottom) env(safe-area-inset-left)}canvas{height:min(100dvh,177.8667vw);width:min(100vw,56.22dvh);display:block;touch-action:none;box-shadow:0 0 40px #000;user-select:none;-webkit-user-select:none}</style></head><body><canvas id="game" width="750" height="1334"></canvas><script src="game.js?v=1119-1315"></script></body></html>
